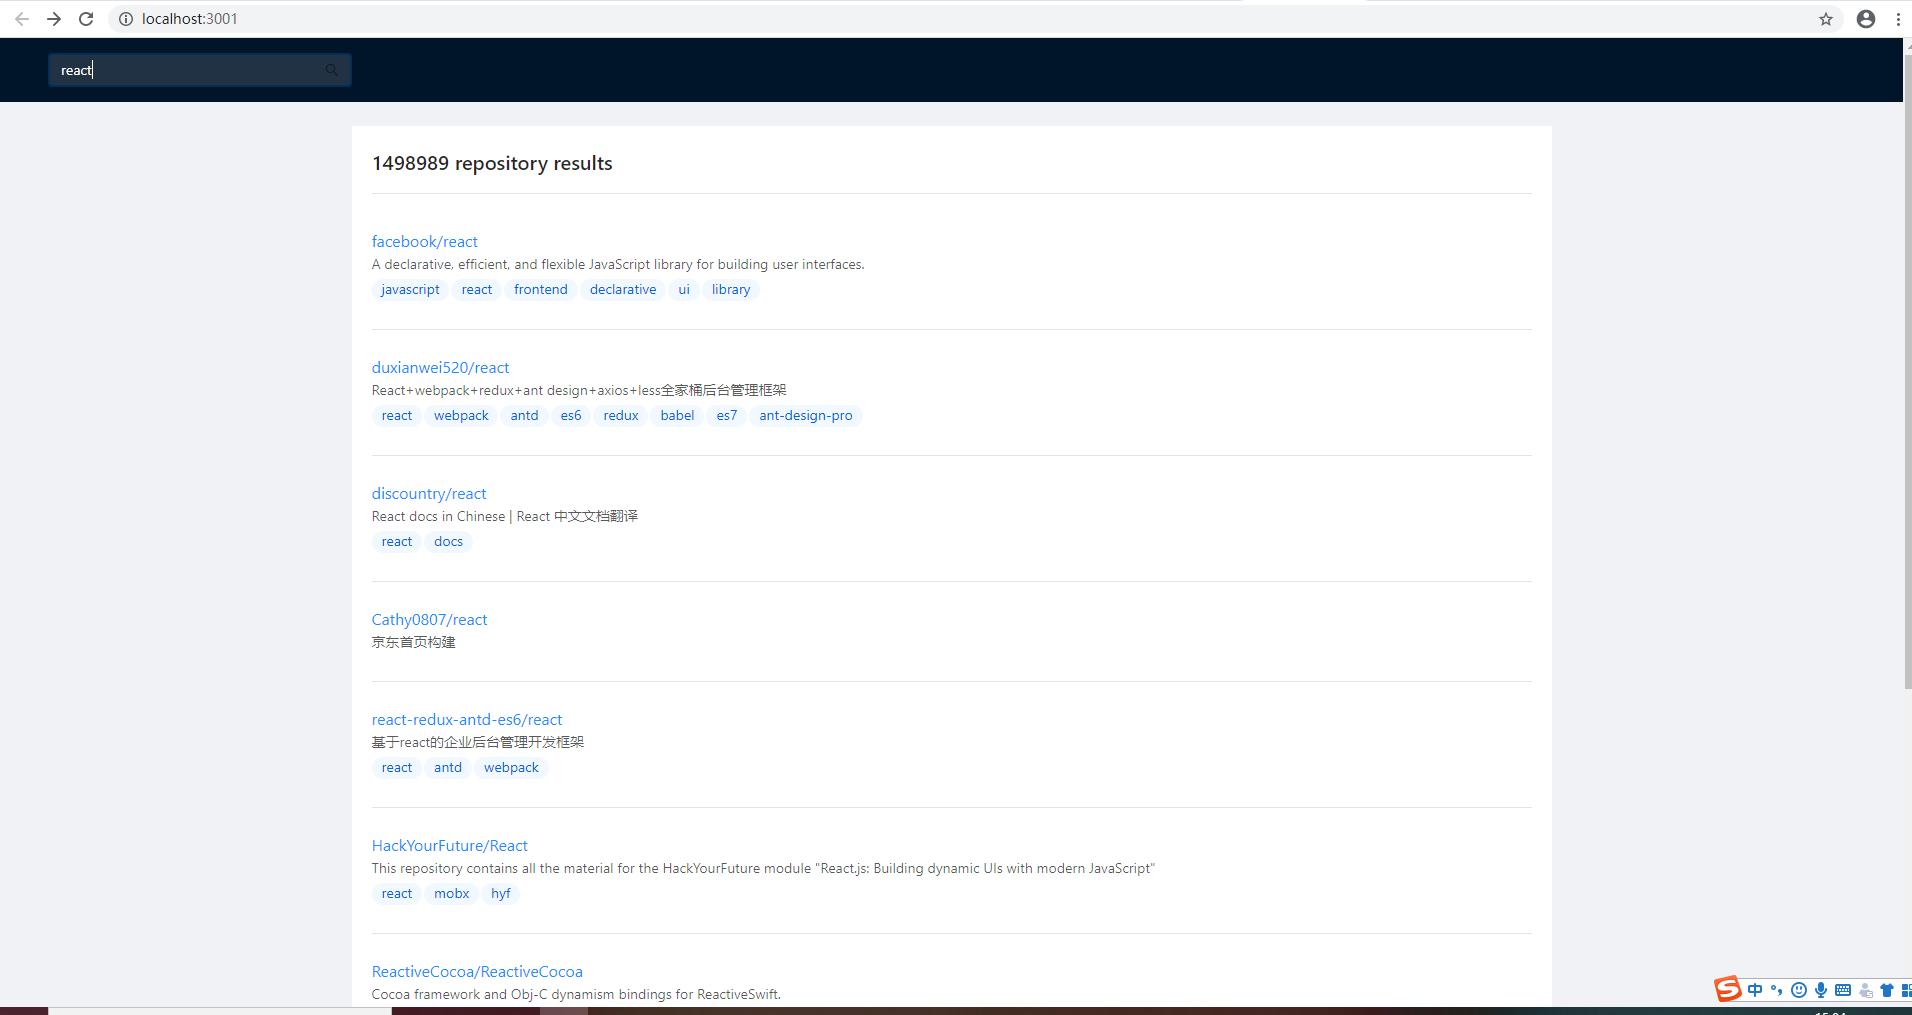
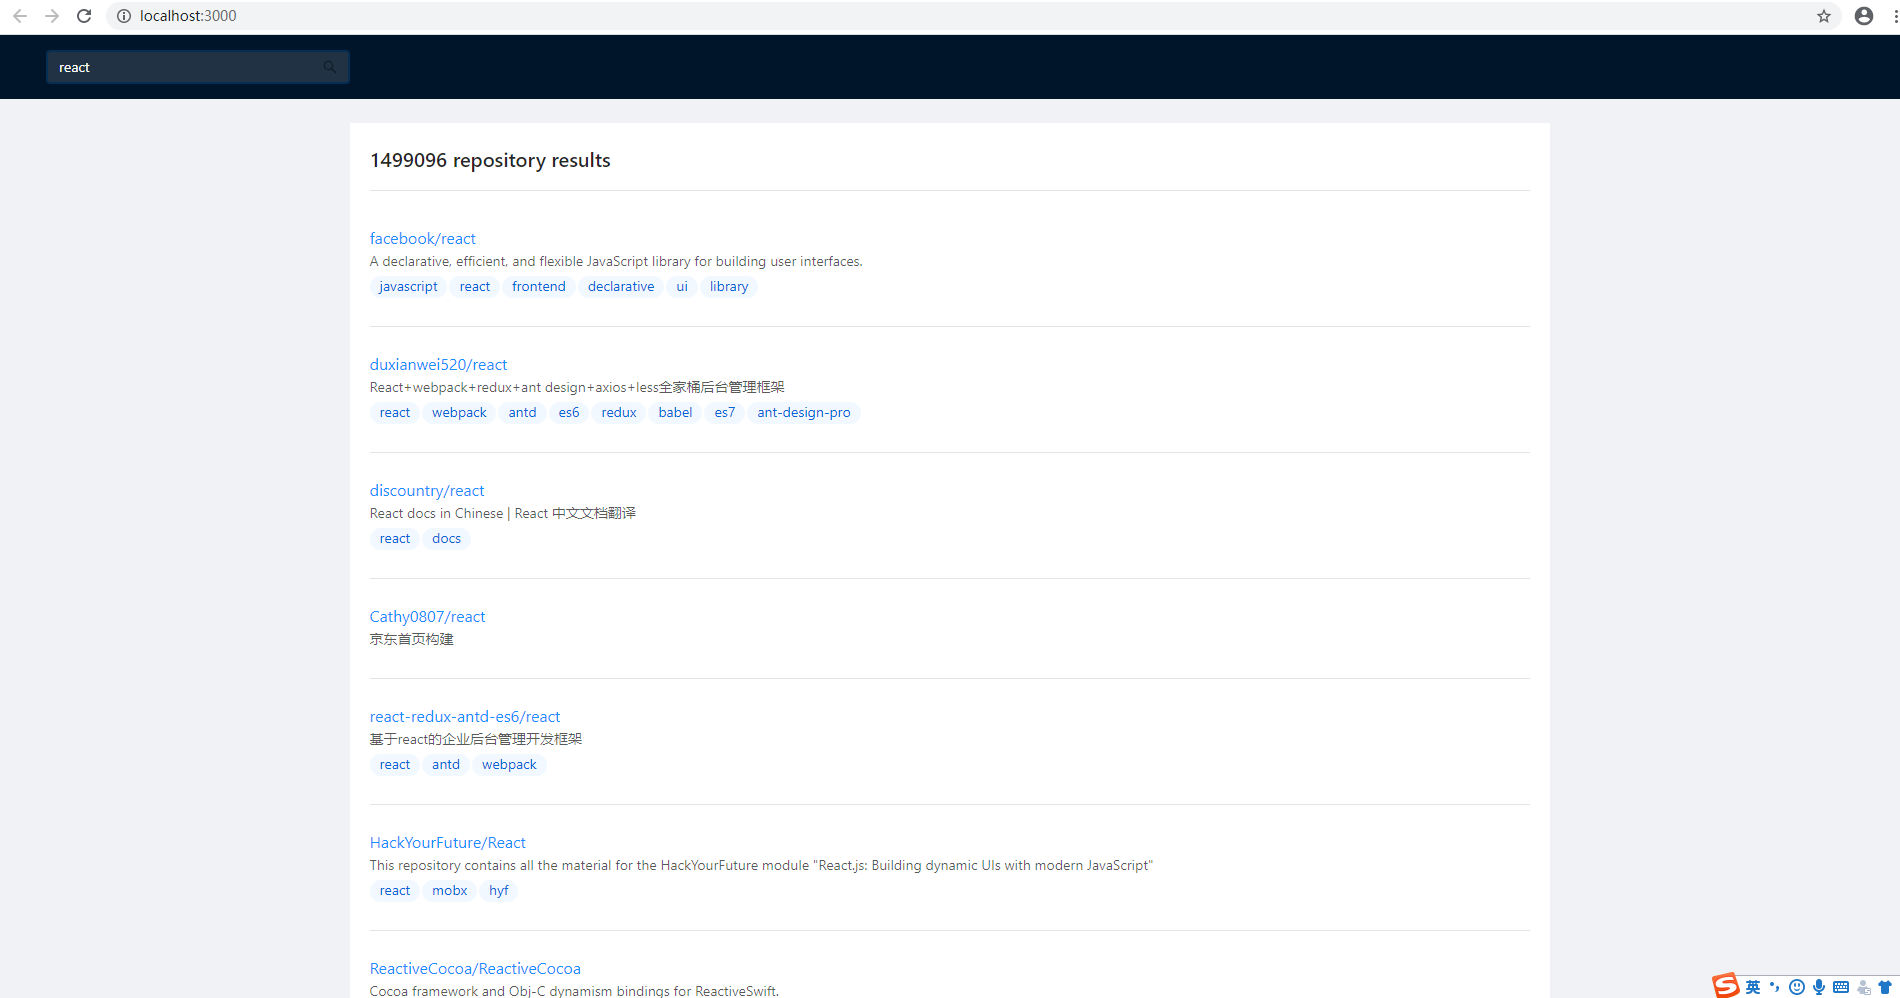
修改

diff --git a/config/webpackDevServer.config.js b/config/webpackDevServer.config.js
@@ -102,8 +102,8 @@ module.exports = function(proxy, allowedHost) {
     public: allowedHost,
     // `proxy` is run between `before` and `after` `webpack-dev-server` hooks
     proxy:{
-      '/manage': {
-        target: 'https://testmanage.juxinggemedia.com', // 代理请求的后端ip端口
+      '/': {
+        target: 'https://api.github.com', // 代理请求的后端ip端口
         changeOrigin: true,
         secure: false
       }

diff --git a/src/component/Header/index.js b/src/component/Header/index.js
@@ -49,7 +49,7 @@ function HeaderCustom(props){
         })
     }
     useEffect(() => {
-      localStorage.setItem('token','e0e41dcd98ba312ebadb420f32235f133943b20e')
+      localStorage.setItem('token','e4a6c5b43aafef15b25d85d9fd283b692f0483ef')
     },[])
     return (
         <div>
